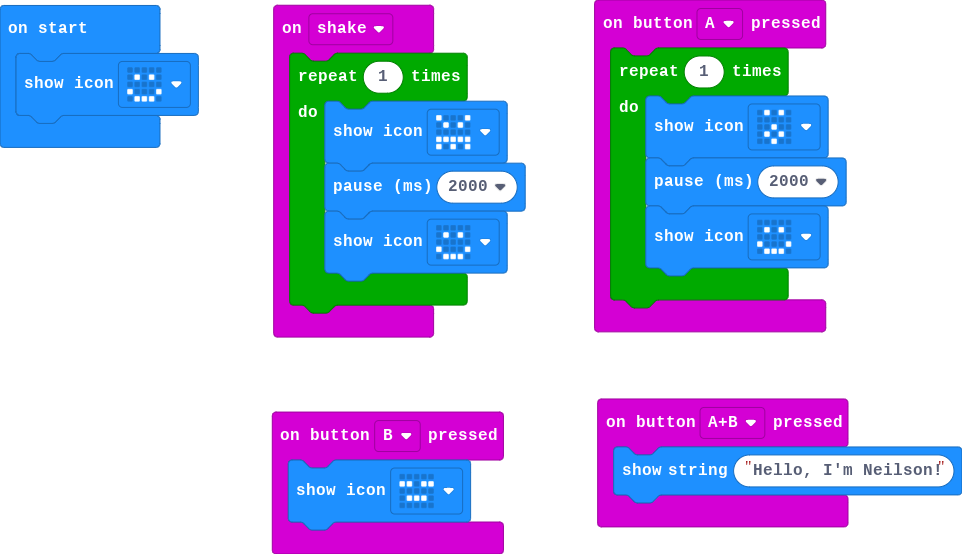
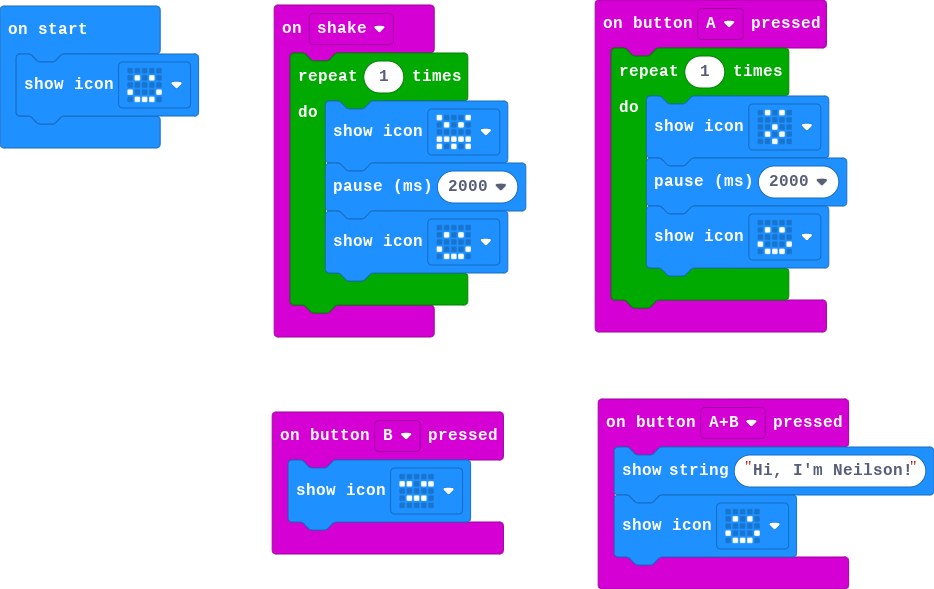
Update main.blocks, main.ts

diff --git a/main.ts b/main.ts
@@ -6,7 +6,8 @@ input.onButtonPressed(Button.A, function () {
     }
 })
 input.onButtonPressed(Button.AB, function () {
-    basic.showString("Hello, I'm Neilson!")
+    basic.showString("Hi, I'm Neilson!")
+    basic.showIcon(IconNames.Happy)
 })
 input.onButtonPressed(Button.B, function () {
     basic.showIcon(IconNames.Asleep)
